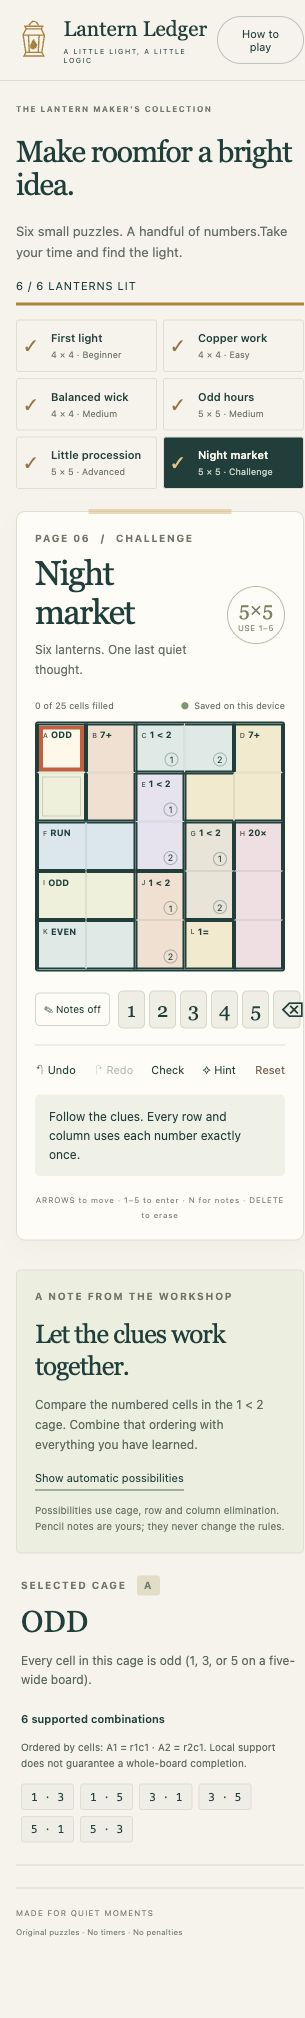
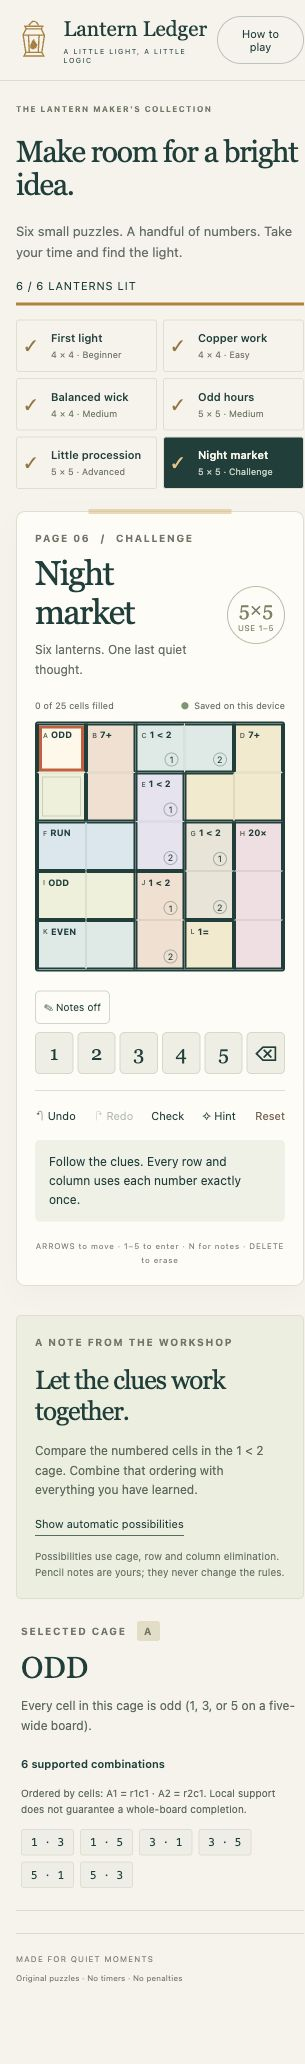
Finalize responsive screenshots and independent review evidence

diff --git a/docs/qa.md b/docs/qa.md
@@ -32,3 +32,5 @@ Matt Pocock code-review Standards and Spec axes were performed in separate agent
 ## Limits
 
 This is a compact original interpretation of the documented reference foundations, not all 18 reference varieties. No physical touch device, screen reader, Safari or Firefox testing. No public deployment or sidebar project-registration claim. Exact final commit/CI evidence is reported in the delivery message after GitHub verification.
+
+Final follow-up reviews against implementation commit 88f5702 reported **zero remaining Standards findings and zero remaining Spec findings**. Both reviewers independently reran all 14 domain tests and the Python verifier successfully. Final UI-only change wraps entry controls at widths below 360 pixels; corrected 320-pixel and tablet screenshots were inspected with no horizontal overflow. Captured warnings came from an installed Chrome extension; no application console error was observed.
